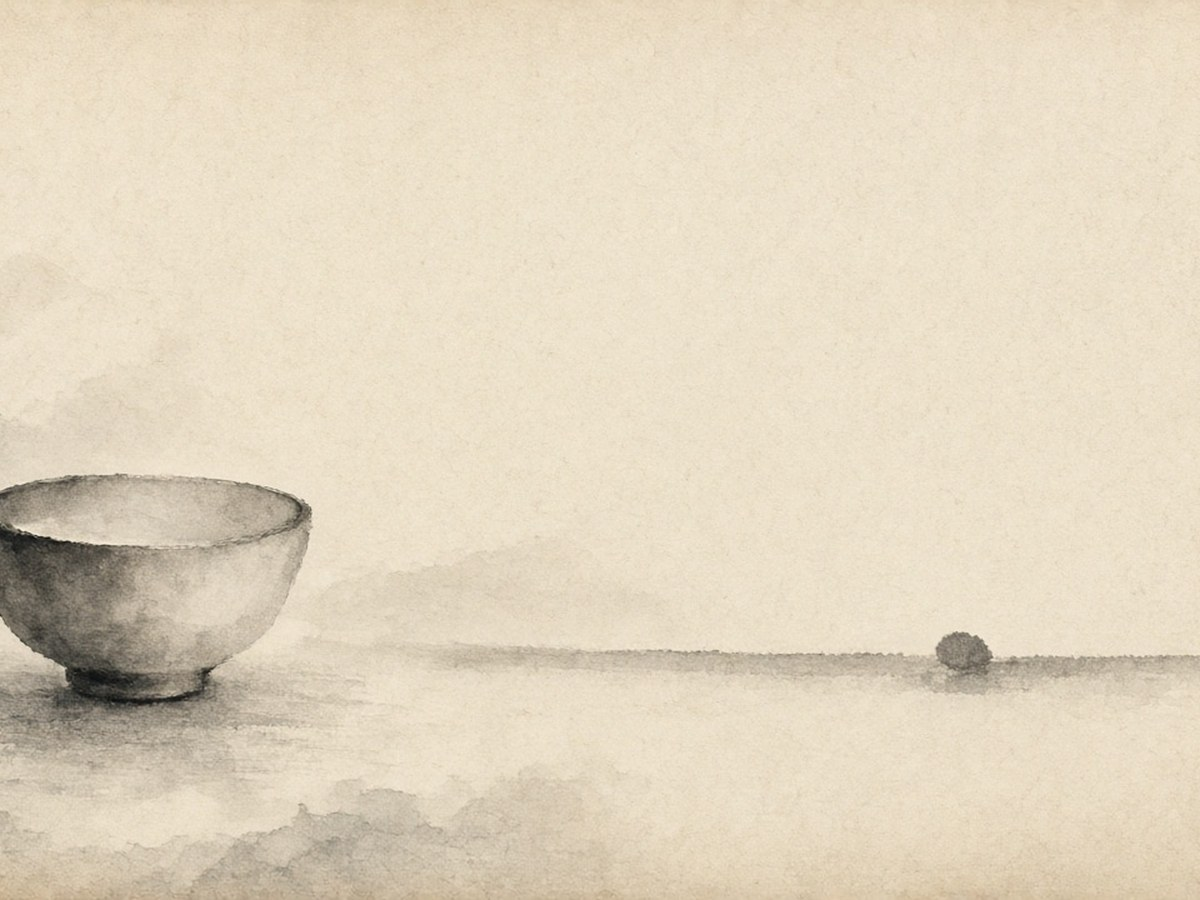
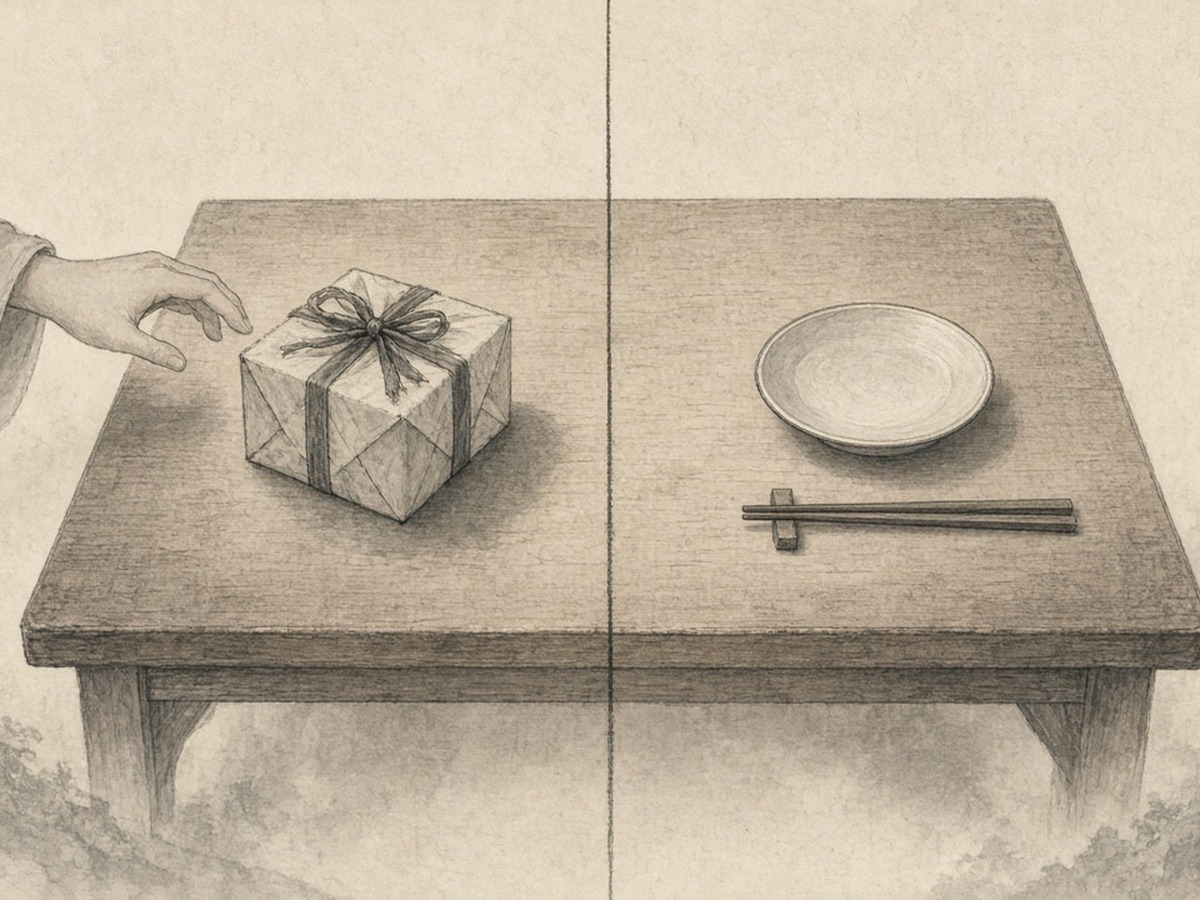
Regen Zhongshu Notes images to match the essay.
Replace the rejected Zen-generic cover and inlines with essay-aligned JPGs, and update EN/ZH alts. dateModified was already 2026-09-16.

diff --git a/src/lib/editorial-posts.ts b/src/lib/editorial-posts.ts
@@ -130,23 +130,23 @@ export const editorialPosts: EditorialPost[] = [
     cover: notesBlogImage(
       "zhongshu-reciprocity-in-the-analects",
       "cover.jpg",
-      "Two symmetrical empty seats across quiet blank space — zhong and shu as a paired teaching, not a slogan poster",
-      "对称空席与双向留白——忠与恕作为成对之教，而非口号海报",
+      "Two complementary halves of one teaching — zhong and shu as a paired Analects door, not a Zen poster",
+      "同一教诲的两半并置——忠与恕作为《论语》成对之门，而非禅意海报",
       { width: 1200, height: 630 }
     ),
     inlineImages: {
       "inline-1": notesBlogImage(
         "zhongshu-reciprocity-in-the-analects",
         "inline-1.jpg",
-        "Empty bowl beside a soft boundary line — shu as a restrained “do not unto others” limit, not a threat",
-        "空碗与淡墨边界——恕作为「己所不欲」的克制边界，而非恐吓",
+        "A gift held back at the table’s midline — shu as “do not impose what you refuse,” not an empty bowl",
+        "礼物停在桌线己侧——恕为「己所不欲勿施」，而非空碗静物",
         NOTES_INLINE_SIZE
       ),
       "inline-2": notesBlogImage(
         "zhongshu-reciprocity-in-the-analects",
         "inline-2.jpg",
-        "Misty fork between an upright measured path and a bent following trail — zhong is not blind loyalty",
-        "雾中分岔：直立有度之路与盲从弯道——忠不等于愚忠",
+        "Finishing an entrusted scroll versus trailing a raised seat — zhong is not blind loyalty",
+        "办妥受托文书对照盲随高座——忠不等于愚忠",
         NOTES_INLINE_SIZE
       ),
     },
